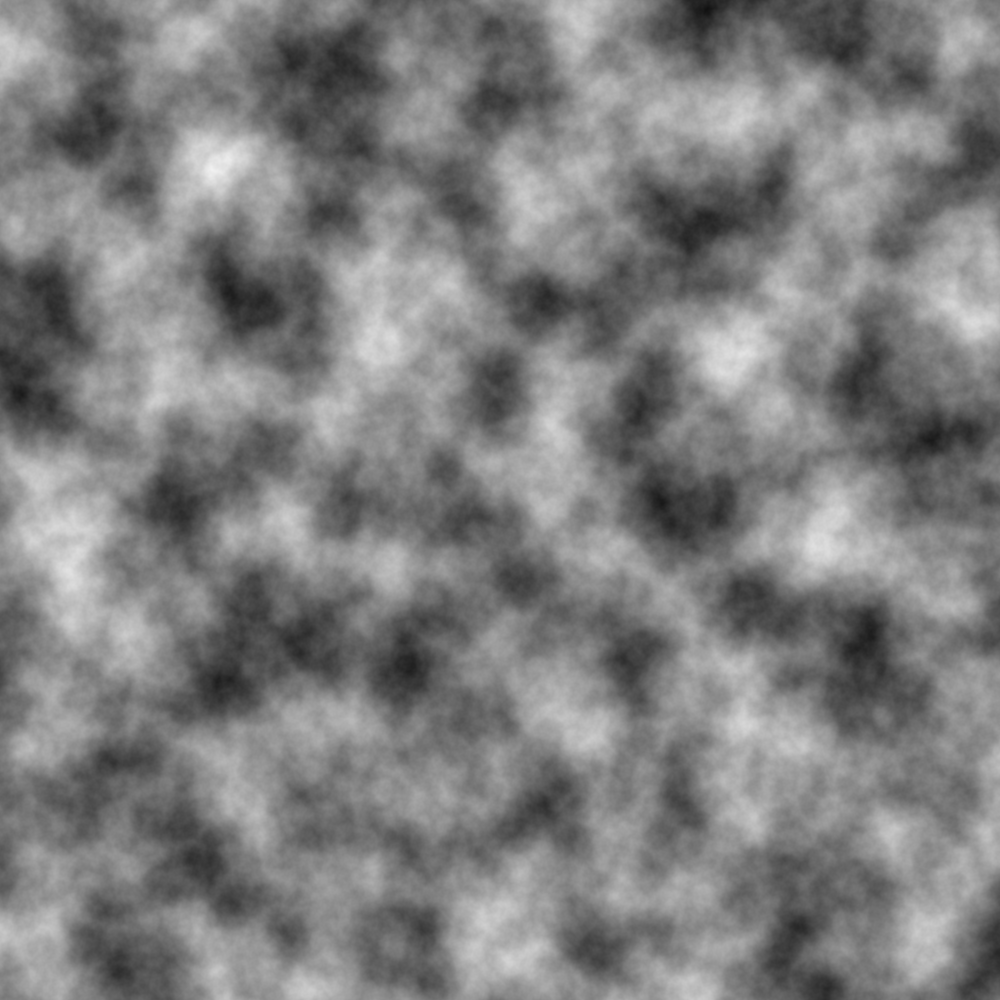
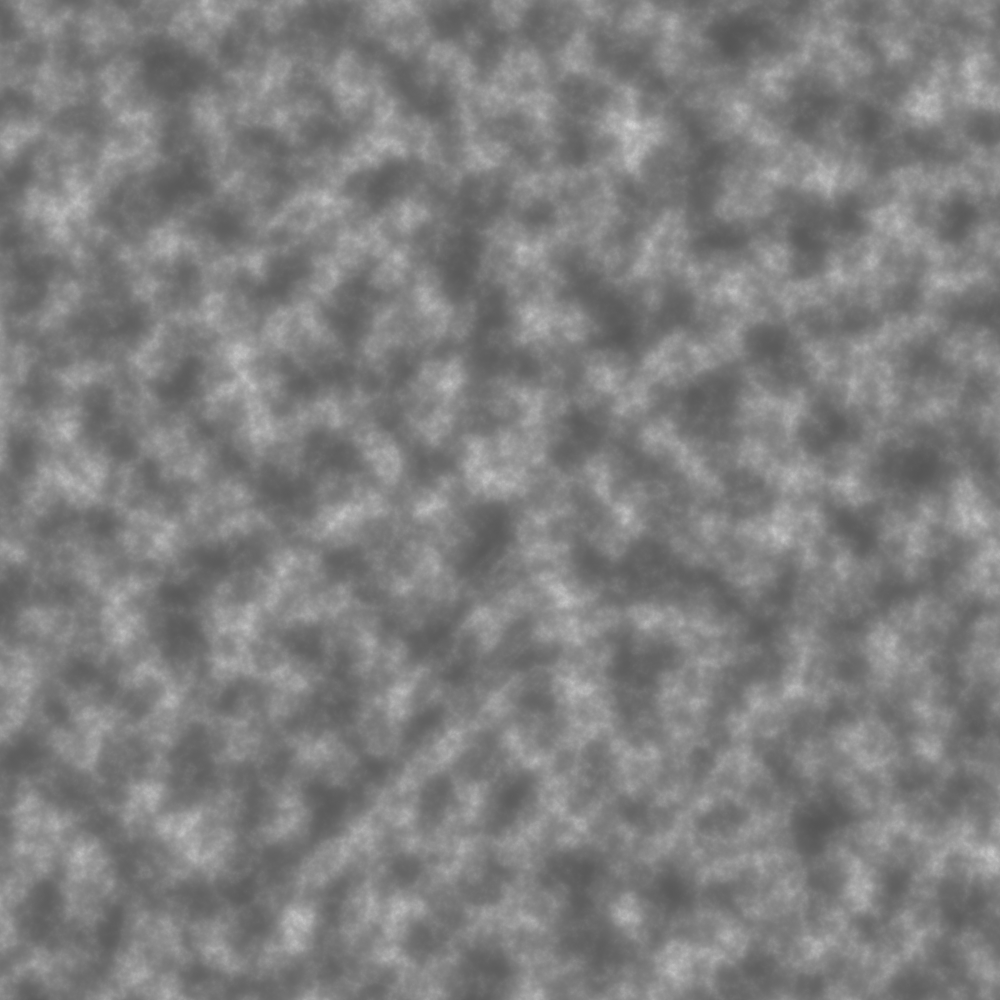
simple verts working

diff --git a/src/main.rs b/src/main.rs
@@ -2,9 +2,9 @@ use bevy::input::mouse::MouseMotion;
 use bevy_rapier2d::prelude::*;
 use bevy::input::mouse::MouseWheel;
 use bevy::input::mouse::MouseScrollUnit;
+use noise::BasicMulti;
 use noise::permutationtable::PermutationTable;
-use noise::core::perlin::*;
-use noise::core::open_simplex::*;
+use noise::core::{open_simplex::*, perlin::*, worley::*};
 use noise::{Fbm, OpenSimplex,};
 use noise::utils::{PlaneMapBuilder, NoiseMapBuilder};
 use rand::Rng;
@@ -16,7 +16,10 @@ use bevy::{
     window::PresentMode,
 };
 
-
+#[derive(Resource)]
+struct VertsTest {
+    verts: Vec<Vec2>
+}
 
 
 #[derive(Resource)]
@@ -82,7 +85,7 @@ fn main() {
 
 fn setup_physics(mut commands: Commands, asset_server: Res<AssetServer>) {
     let mut rng = rand::thread_rng();
-    let fbm = Fbm::<OpenSimplex>::new(rng.gen_range(0..9999));
+    let fbm = Fbm::<BasicMulti<OpenSimplex>>::new(rng.gen_range(0..9999));
     
     
     
@@ -110,11 +113,16 @@ fn setup_physics(mut commands: Commands, asset_server: Res<AssetServer>) {
 
     noisemap.write_to_file("fbm11.png");
     let hasher = PermutationTable::new(rng.gen_range(0..9999));
+
     
     
     
     commands.insert_resource(HasherData {
         hasher: hasher
+    });
+
+    commands.insert_resource(VertsTest {
+        verts: vec![]
     });
     
       
@@ -126,7 +134,7 @@ fn setup_physics(mut commands: Commands, asset_server: Res<AssetServer>) {
             println!("result: {}", perlin_2d::<PermutationTable>([x as f64 + 0.5_f64, y as f64 + 0.5_f64], &hasher));
         }
     }
-    //TODO:fix this so that result ins't 0 so that you can get perlin values at any position possible
+    
 
 
 
@@ -227,14 +235,16 @@ fn move_cube(
     mut commands: Commands,
     mut meshes: ResMut<Assets<Mesh>>,
     mut materials: ResMut<Assets<ColorMaterial>>,
+    mut gizmos: Gizmos,
+    mut verts: ResMut<VertsTest>
 ) {
     for mut cube in cubes.iter_mut() {
 
         
         let translation = cube.translation.clone();
         //cube.translation.y += noisemap.noise.get_value((translation.x % 1000.0).abs() as usize, (translation.y  % 1000.0).abs() as usize) as f32 * time.delta_seconds() * 200.0;
-        cube.translation.y += open_simplex_2d::<PermutationTable>([translation.x as f64 / 100.0_f64, translation.y as f64 / 100.0_f64], &hasher.hasher) as f32 * time.delta_seconds() * 10000.0;
-        cube.translation.x += 1000.0 * time.delta_seconds();
+        cube.translation.y += perlin_2d::<PermutationTable>([translation.x as f64 / 300.0_f64, translation.y as f64 / 300.0_f64], &hasher.hasher) as f32 * time.delta_seconds() * 20000.0;
+        cube.translation.x += 3000.0 * time.delta_seconds();
         //println!("{}, {:?}", (translation.x % 1000.0).abs() as usize, (translation.y  % 1000.0).abs() as usize);
         
         
@@ -266,11 +276,20 @@ fn move_cube(
 
         // Circle
         commands.spawn(MaterialMesh2dBundle {
-            mesh: meshes.add(shape::Circle::new(500.0).into()).into(),
+            mesh: meshes.add(shape::Quad::new(Vec2::splat(500.0)).into()).into(),
             material: materials.add(ColorMaterial::from(Color::MIDNIGHT_BLUE)),
             transform: Transform::from_translation(cube.translation),
             ..default()
         });
+
+        verts.verts.extend([Vec2::new(cube.translation.x, cube.translation.y + 250.0)].iter());
+        verts.verts.extend([Vec2::new(cube.translation.x, cube.translation.y - 250.0)].iter());
+
+        for i in verts.verts.iter() {
+            gizmos.line_2d(Vec2::new(i.x - 0.5, i.y - 0.5), *i, Color::LIME_GREEN)
+        }
+
+        //simple verts working!
     }
 
 }
